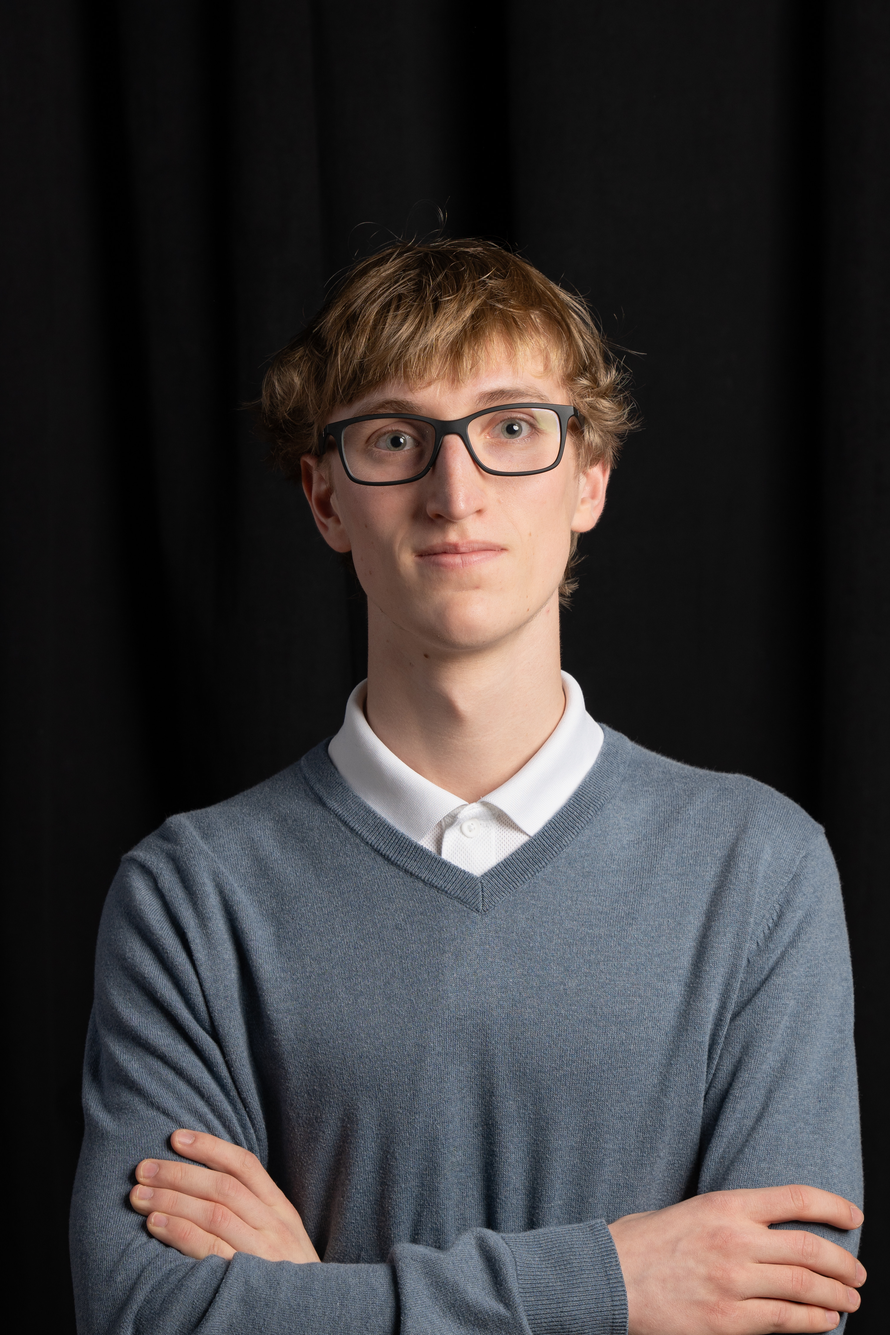
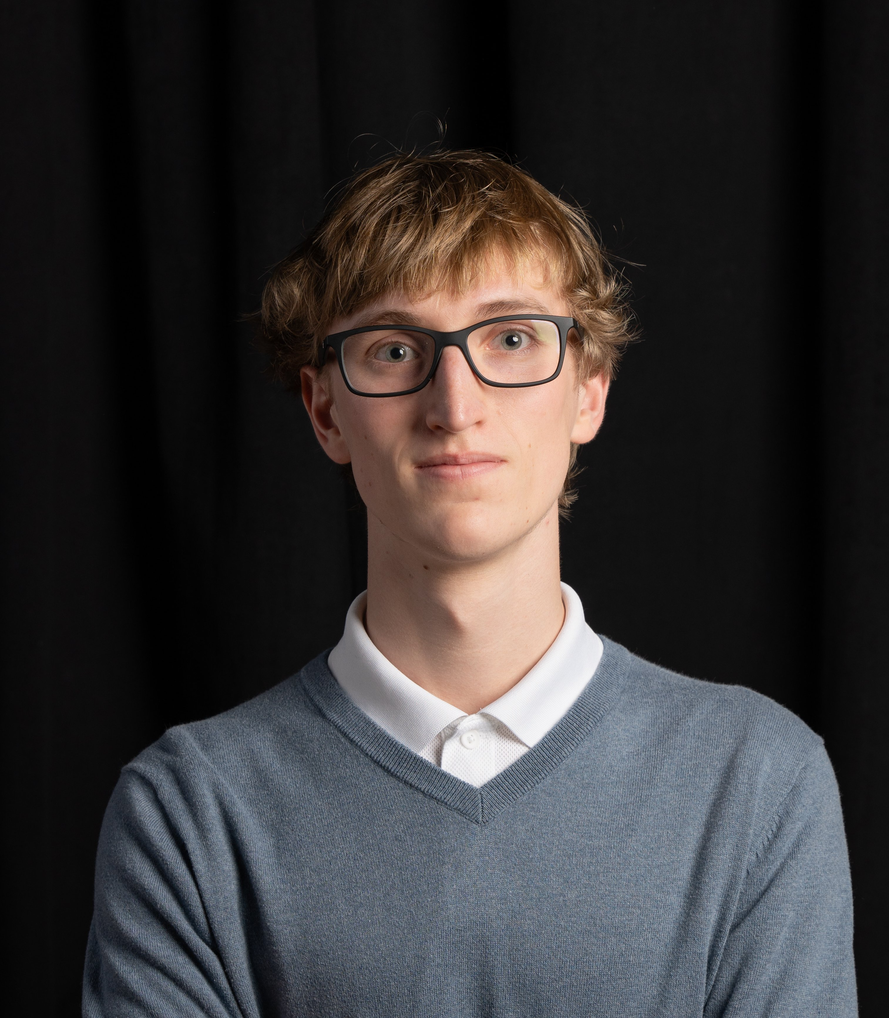
Updated photos and changed BOB officer to Vini

diff --git a/static/css/styles.css b/static/css/styles.css
@@ -1064,9 +1064,6 @@ video {
 .h-10 {
   height: 2.5rem;
 }
-.h-12 {
-  height: 3rem;
-}
 .h-16 {
   height: 4rem;
 }
@@ -1129,9 +1126,6 @@ video {
 }
 .w-10 {
   width: 2.5rem;
-}
-.w-12 {
-  width: 3rem;
 }
 .w-48 {
   width: 12rem;
@@ -1808,27 +1802,22 @@ video {
 .bruh-card:hover .bruh-card-text {
   background-color: rgb(0 0 0 / 0.5);
 }
-
 .hover\:scale-105:hover {
   --tw-scale-x: 1.05;
   --tw-scale-y: 1.05;
   transform: translate(var(--tw-translate-x), var(--tw-translate-y)) rotate(var(--tw-rotate)) skewX(var(--tw-skew-x)) skewY(var(--tw-skew-y)) scaleX(var(--tw-scale-x)) scaleY(var(--tw-scale-y));
 }
-
 .hover\:scale-110:hover {
   --tw-scale-x: 1.1;
   --tw-scale-y: 1.1;
   transform: translate(var(--tw-translate-x), var(--tw-translate-y)) rotate(var(--tw-rotate)) skewX(var(--tw-skew-x)) skewY(var(--tw-skew-y)) scaleX(var(--tw-scale-x)) scaleY(var(--tw-scale-y));
 }
-
 .hover\:opacity-70:hover {
   opacity: 0.7;
 }
-
 .hover\:opacity-90:hover {
   opacity: 0.9;
 }
-
 @media (min-width: 640px) {
 
   .sm\:w-96 {
@@ -1840,7 +1829,6 @@ video {
     padding-right: 2.25rem;
   }
 }
-
 @media (min-width: 768px) {
 
   .md\:-right-1 {
@@ -1938,7 +1926,6 @@ video {
     font-size: 72px;
   }
 }
-
 @media (min-width: 1024px) {
 
   .lg\:grid-cols-3 {
